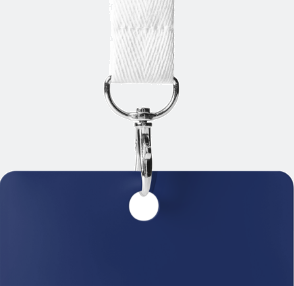
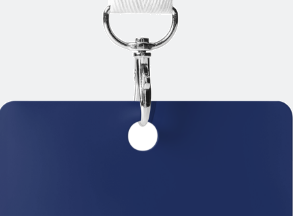
added Home

Changed region(s): [[0.0, 0.0, 1.0, 0.7778], [0.3993, 0.0, 0.4915, 0.0278], [0.43, 0.0833, 0.4608, 0.1111]]

diff --git a/src/screens/HomeScreen.js b/src/screens/HomeScreen.js
@@ -7,7 +7,9 @@ import {
   Image,
   Platform,
   Dimensions,
+  ImageBackground,
 } from 'react-native';
+// import {commonText} from '../commons';
 
 import Images from '../Images';
 import Colors from '../Colors';
@@ -20,38 +22,72 @@ const HomeScreen = () => {
         <Image source={Images.CardTopHolder} style={{height: 30, width: 30}} />
       </View>
       <View style={styles.cardHolderWrapper}>
-        <View style={styles.cardHolderImageContainer}>
-          <Image
-            source={require('../Images/idCard.png')}
-            style={styles.imageContainer}
-          />
-          <View style={styles.cardContainer}>
-            <Text>adsf</Text>
+        <ImageBackground
+          source={require('../Images/idCard.png')}
+          style={styles.imageContainer}>
+          <View
+            style={{
+              flexDirection: 'row',
+              alignItems: 'flex-end',
+              flex: 1,
+            }}></View>
+
+          <View
+            style={{
+              flexDirection: 'column',
+              alignItems: 'flex-end',
+              flex: 1 / 1.3,
+            }}>
+            <Image
+              source={Images.UniversityName}
+              style={{alignSelf: 'flex-start', margin: 5}}
+            />
+
+            <Text
+              style={{
+                alignSelf: 'center',
+                margin: 15,
+                fontSize: 21,
+                color: Colors.whiteColor,
+              }}>
+              미인증된 안전 확인증
+            </Text>
           </View>
+        </ImageBackground>
+        <View style={styles.cardBody}>
+          <Text>asdf</Text>
         </View>
       </View>
-      {/* <Text>asdf</Text> */}
+
+      <View style={styles.footerSlider}>
+        <Text>sdf</Text>
+      </View>
     </ScrollView>
   );
 };
 
 const styles = StyleSheet.create({
-  cardContainer: {
+  cardBody: {
+    borderBottomLeftRadius: 10,
+    borderBottomRightRadius: 10,
+
+    backgroundColor: Colors.CardColor,
+    flex: 2,
     shadowColor: '#000',
+    elevation: 3,
     shadowOffset: {
       width: 0,
       height: 1,
     },
     shadowOpacity: 0.2,
     shadowRadius: 1.41,
-
-    elevation: 2,
-    backgroundColor: Colors.cardHolderBg,
-    height: height / 2.3,
-    backgroundColor: Colors.cardHolderBg,
-    borderBottomLeftRadius: 14,
-    borderBottomRightRadius: 14,
   },
+  footerSlider: {
+    flex: 1 / 2,
+    height: 30,
+    backgroundColor: 'blue',
+  },
+
   wrapper: {
     flex: 1,
     justifyContent: 'flex-start',
@@ -59,18 +95,19 @@ const styles = StyleSheet.create({
     backgroundColor: Colors.backgroundColor,
   },
   cardHolderWrapper: {
+    height: height / 1.5,
     // width: width - 100,
     // overflow: 'hidden',
+    flex: 3,
   },
   imageContainer: {
-    resizeMode: 'stretch',
-    height: height / 4,
+    resizeMode: 'contain',
+    width: width / 1.3,
+    height: height / 3,
+    borderRadius: 20,
+    backgroundColor: 'red',
   },
-  cardHolderImageContainer: {
-    // height: height / 3,
-    // backgroundColor: 'green',
-    // overflow: 'hidden',
-  },
+
   notificaitonIcon: {
     shadowColor: '#000',
     elevation: 3,

diff --git a/src/commons/index.js b/src/commons/index.js
@@ -1,11 +1,23 @@
-import TextInput from './TextInput'
-import Header from './Header'
-import TextInputLeftIcon from './TextInputLeftIcon'
-import CommonButton from './FooterBotton'
-import CommonStyles from './CommonStyles'
-import MiddleText from './CenterText'
-import Divider from './Divider'
-import HomeInnerContainer from './HomeInnerContainer'
-import CommentBox from './HomeCommentBox'
+import TextInput from './TextInput';
+import Header from './Header';
+import TextInputLeftIcon from './TextInputLeftIcon';
+import CommonButton from './FooterBotton';
+import CommonStyles from './CommonStyles';
+import MiddleText from './CenterText';
+import Divider from './Divider';
+import HomeInnerContainer from './HomeInnerContainer';
+import CommentBox from './HomeCommentBox';
+import commonText from './CommonText';
 
-export { CommentBox, HomeInnerContainer, Divider, TextInput, Header, TextInputLeftIcon, CommonButton, CommonStyles, MiddleText } 
+export {
+  CommentBox,
+  HomeInnerContainer,
+  Divider,
+  TextInput,
+  Header,
+  TextInputLeftIcon,
+  CommonButton,
+  CommonStyles,
+  MiddleText,
+  commonText,
+};

diff --git a/src/colors/index.js b/src/colors/index.js
@@ -5,4 +5,29 @@ export default Colors = {
   backgroundColor: '#F1F2F3',
   cardHolderBg: '#F4F4F4',
   whiteColor: '#FFFFFF',
+  inputTitle: '#999999',
+  inputText: '#000000',
+  inputplaceHolder: '#0000002E',
+  headerTitle: '#000000',
+  loginHelpText: '#00000099',
+  InactiveButton: '#EBEBEB',
+  Inactivebuttontext: '#0000004D',
+  activeButton: '#4388F0',
+  activebuttontext: '#FFFFFF',
+  TextInputBorder: '#4388F0',
+  ApplicationCompleteText: '#2A8CFF',
+  FAQlist: '#00000099',
+  FAQDescription: '#2A8CFF',
+  HomePageTitle: '#000000',
+  HomePageText: '#404040',
+  textBoxBorder: '#A1C3F7',
+  backColor: '#404040',
+  appColor: '#FFFFFF',
+  circleColor: '#E2E6ED',
+  homePageContainerColor: '#00000019',
+  commentTitleColor: '#393939',
+  commentBackgroundColor: '#F6F7FA',
+  YellowColor: '#FFDF00',
+  ModalBackground: '#00000062',
+  BlueColor: '#243362',
 };

diff --git a/src/commons/CommonText.js b/src/commons/CommonText.js
@@ -1,0 +1,18 @@
+import React from 'react'
+import { View, Text, StyleSheet } from 'react-native'
+
+const CommonText = ({ textInput, externalStyle}) => { 
+    return (
+        <Text style={{...styles.textStyle, ...externalStyle}}>
+            {textInput}
+        </Text>
+    )
+}
+
+const styles = StyleSheet.create({
+    textStyle={
+        color:'#00000099'
+    }
+})
+
+export default CommonText

diff --git a/index.js b/index.js
@@ -3,7 +3,7 @@
  */
 
 import {AppRegistry} from 'react-native';
-import App from './src';
+import App from './src/screens/HomeScreen';
 import {name as appName} from './app.json';
 
 AppRegistry.registerComponent(appName, () => App);
